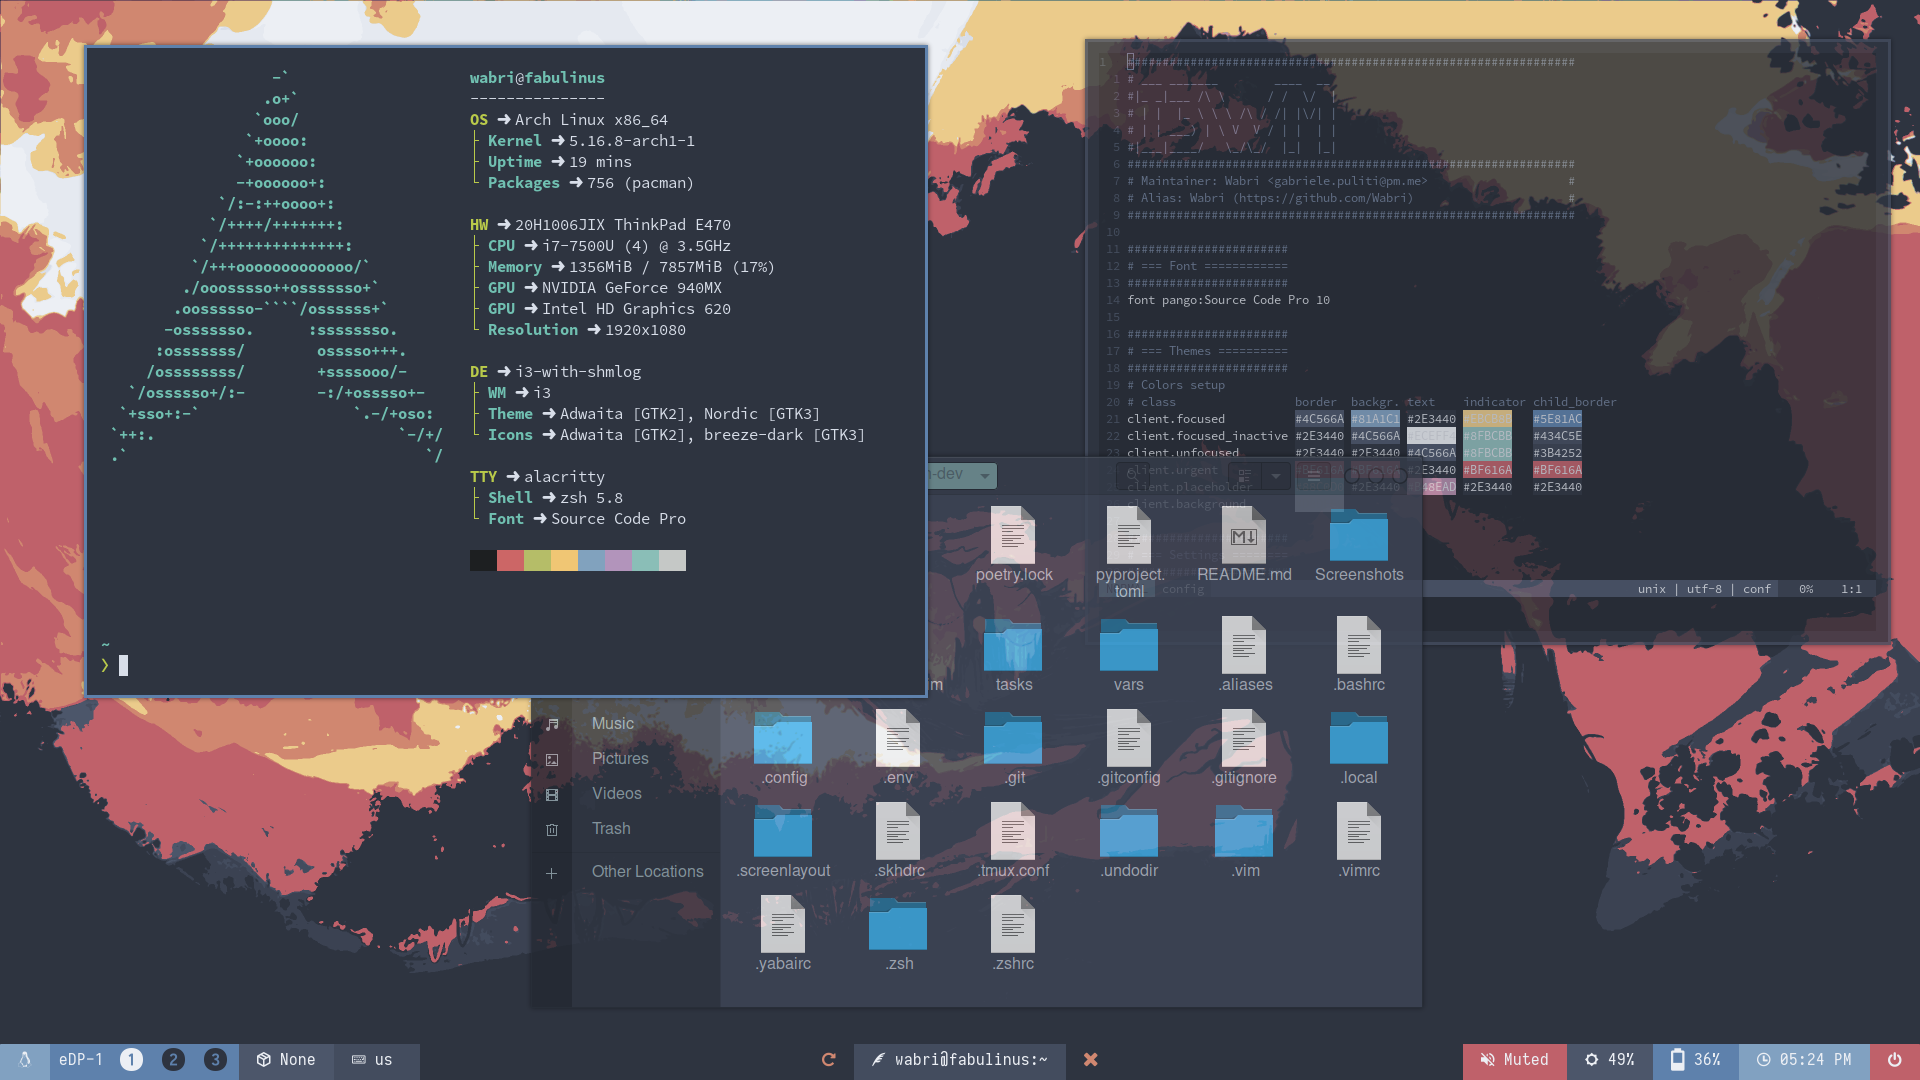
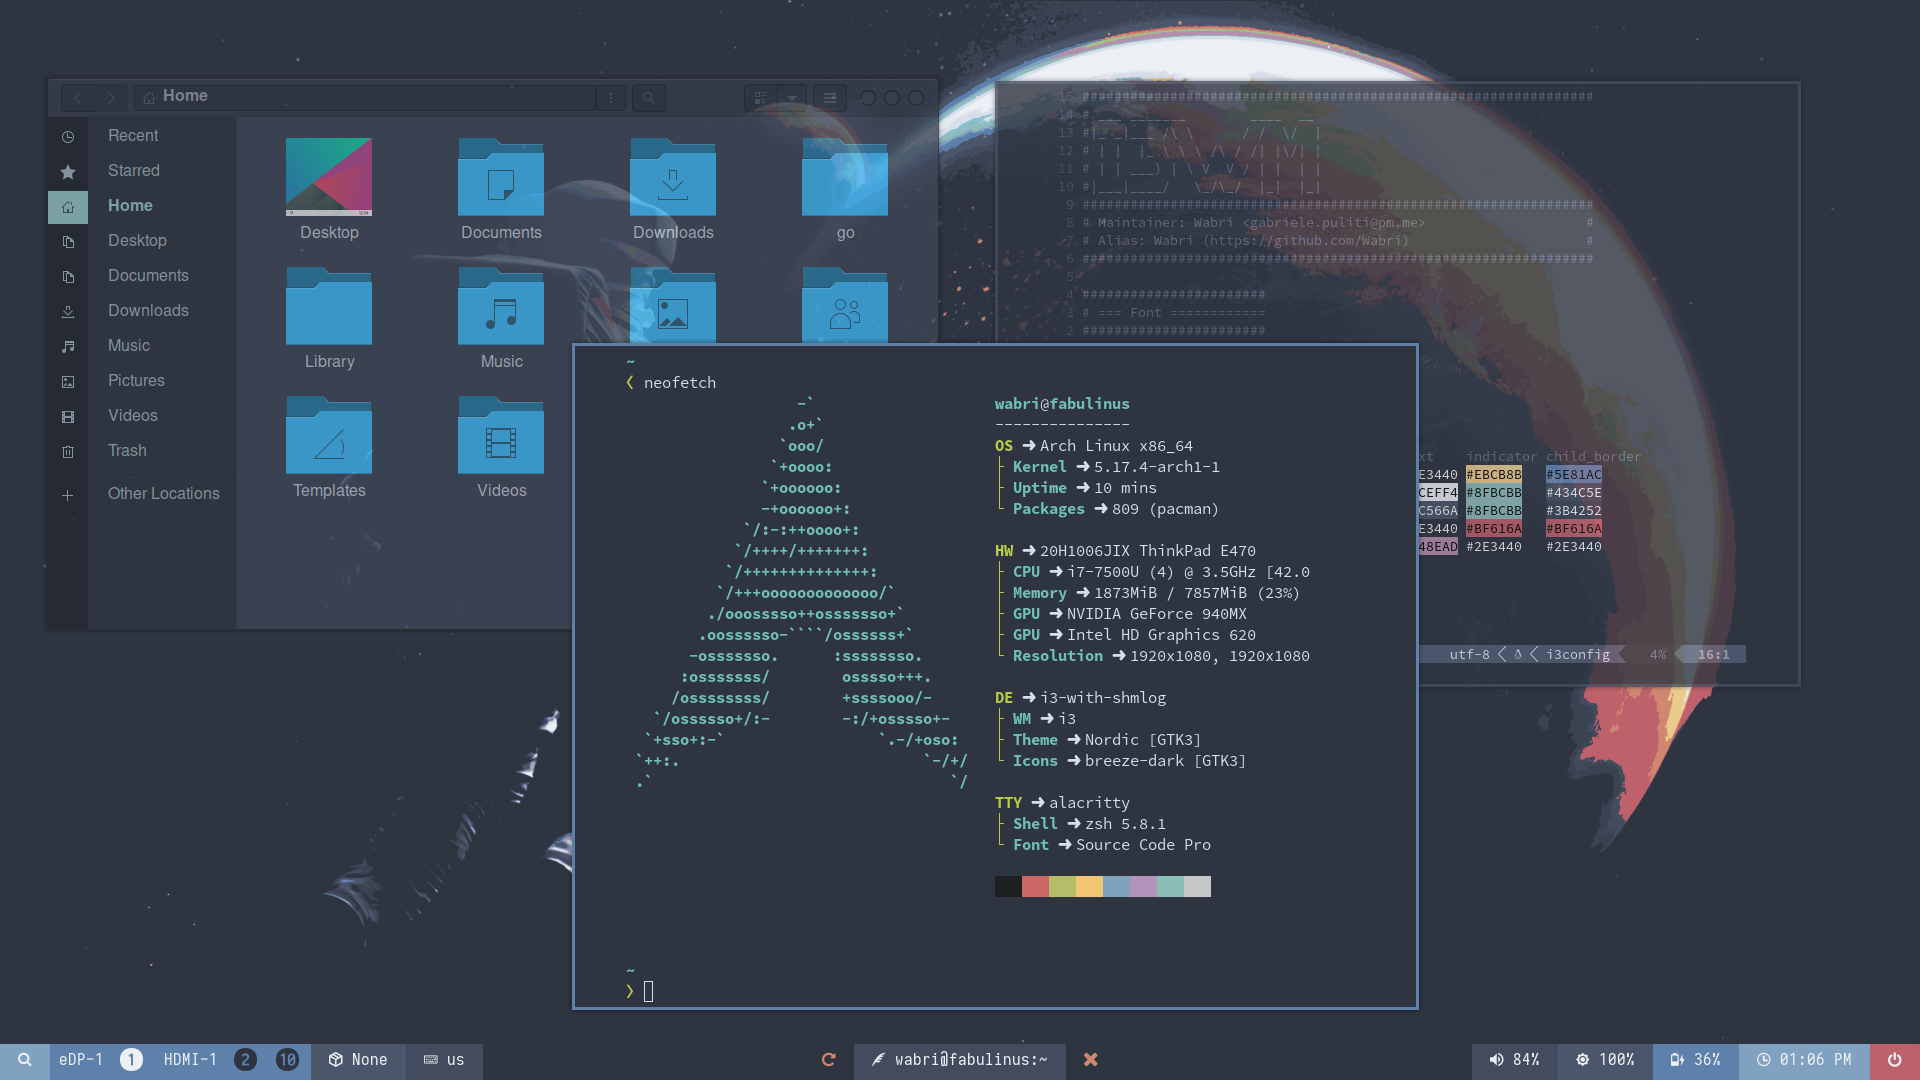
Feature: update Screenshots

diff --git a/README.md b/README.md
@@ -2,9 +2,21 @@
 
 ***Forever work in progress***
 
-![unixporn](Screenshots/unixporn.png)
+Nautilus + Neofetch + vim:
 
-![unixporn2](Screenshots/unixporn2.png)
+![RANDOM](Screenshots/unixporn.png)
+
+Tmux+zsh+NeoVim+Vimwiki:
+
+![TMUX+VIM](Screenshots/unixporn2.png)
+
+Spotify:
+
+![SPOTIFY](Screenshots/unixporn3.png)
+
+Wallpaper:
+
+![Wallpaper](Pictures/wallpaper.png)
 
 ## About this config
 
